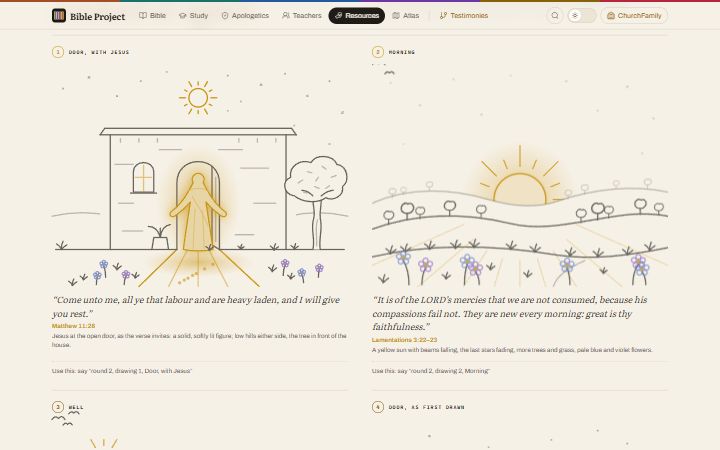
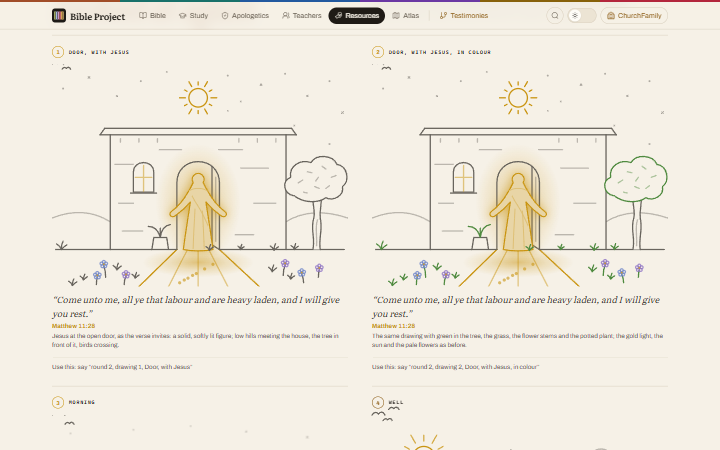
Design: round 2 - a coloured copy of Door with Jesus (green tree, grass, stems and plant) beside the original; both gain a right-to-left flock, lose the stray tree curves, and their hills meet the house (owner)

diff --git a/design/help-for-life-drawings-2/scenes.js b/design/help-for-life-drawings-2/scenes.js
@@ -10,37 +10,38 @@
   // Jesus in the doorway as one solid silhouette: head, hair to the shoulders, open sleeves and hands, the robe to the step.
   const FIGURE = "M122.6 127.6C121 131 119.6 134 117.6 137C112 147 106 154 99 159C96.5 160.5 97 164.5 100.5 164.6C102 164.5 103 163.8 104 163C111 158 116 153 119.6 148.6C117 166 114 184 112 200C120 202 136 202 144 200C142 184 139 166 136.4 148.6C140 153 145 158 152 163C153 163.8 154 164.5 155.5 164.6C159 164.5 159.5 160.5 157 159C150 154 144 147 138.4 137C136.4 134 135 131 133.4 127.6A6.4 6.4 0 1 0 122.6 127.6Z";
   const TREE = `<path class="pf" d="M282 200C285 188 279 178 283 166C285 158 281 150 282 142H291C292 150 289 158 290 166C293 178 288 188 290 200Z"/><path d="M282 200C285 188 279 178 283 166C285 158 281 150 282 142"/><path d="M290 200C288 188 293 178 290 166C289 158 292 150 291 142"/><path class="f" d="M286 196C287 186 284 176 287 168"/>
-      <g class="crown"><path class="pf" d="M262 142C250 140 248 126 258 122C256 110 268 102 280 106C286 96 304 98 308 108C320 110 322 126 314 132C316 142 304 148 296 144C288 150 272 150 262 142Z"/><path d="M262 142C250 140 248 126 258 122C256 110 268 102 280 106C286 96 304 98 308 108C320 110 322 126 314 132C316 142 304 148 296 144C288 150 272 150 262 142Z"/><path class="f" d="M266 128l5-3M276 116l5 1M292 110l4 3M302 122l5-2M284 132l5 2M296 134l4-3M272 138l4 1M288 122l-3 4"/><path d="M282 142C278 138 274 136 270 136M291 142C296 138 300 136 304 136"/></g>`;
+      <g class="crown"><path class="pf" d="M262 142C250 140 248 126 258 122C256 110 268 102 280 106C286 96 304 98 308 108C320 110 322 126 314 132C316 142 304 148 296 144C288 150 272 150 262 142Z"/><path class="canopy" d="M262 142C250 140 248 126 258 122C256 110 268 102 280 106C286 96 304 98 308 108C320 110 322 126 314 132C316 142 304 148 296 144C288 150 272 150 262 142Z"/><path class="f leafdash" d="M266 128l5-3M276 116l5 1M292 110l4 3M302 122l5-2M284 132l5 2M296 134l4-3M272 138l4 1M288 122l-3 4"/></g>`;
 
   window.ART = {
     // A · Come unto me (Matthew 11:28): Jesus as a solid, softly lit figure in the open doorway; the door's lines stop at
     // his outline. Low hills either side; the tree stands in front of the house's right side.
-    doorSolid: () => svg("Line drawing: Jesus standing as a softly lit figure in the open doorway of a small stone house at night, his arms open, the light falling across the step; a hill behind the house and a tree beside it", `
-      <defs>${glow("door-glow-2", "var(--c)", .5)}</defs>
+    doorSolid: (variant = "") => svg("Line drawing: Jesus standing as a softly lit figure in the open doorway of a small stone house at night, his arms open, the light falling across the step; a hill behind the house and a tree beside it", `
+      <defs>${glow(`door-glow-2${variant}`, "var(--c)", .5)}</defs>
       ${stars([[12, 26], [40, 14, 1.2], [70, 34, .9], [96, 18], [124, 8, .8], [190, 12],  [204, 40, .8], [226, 22, 1.2], [252, 10], [276, 34, 1.1], [300, 18], [314, 52, .9], [262, 66, .8], [236, 80, .8], [300, 86, .9], [190, 50, .7]])}
       <circle class="t" cx="158" cy="36" r="10"/><g class="t sunrays">${range(12, (i) => { const a = i * Math.PI / 6, r2 = i % 2 ? 17 : 20; return `<path d="M${n(158 + Math.cos(a) * 14)} ${n(36 + Math.sin(a) * 14)}L${n(158 + Math.cos(a) * r2)} ${n(36 + Math.sin(a) * r2)}"/>`; })}</g>
-      <path class="f" d="M64 164C44 159 22 159 0 164"/>
-      <path class="f" d="M256 164C276 159 298 159 320 164"/>
+      <path class="f" d="M0 166C20 158 42 157 63 170"/>
+      <path class="f" d="M253 170C274 157 296 158 320 166"/>
+      <g class="flock-rtl">${bird(0, 0, .9)}${bird(16, -5, .7)}${bird(11, 5, .65)}</g>
       <g transform="translate(30 0)">
-      <path class="pf" d="M22 69H234V200H22Z"/>
+      <path class="pf" d="M22 69H234V76H223V200H33V76H22Z"/>
       <path d="M22 76H234"/><path d="M27 69H229"/><path d="M22 76L27 69M234 76L229 69"/>
       <path class="f" d="M44 80v4M64 80v4M84 80v4M172 80v4M192 80v4M212 80v4"/>
       <path d="M33 76V200"/><path d="M223 76V200"/>
       <path class="f" d="M38 108h20M42 150h16M46 180h22M174 112h30M188 150h24M168 184h20M86 92h24M150 92h26"/>
       <path d="M58 138V116C58 110 63 106 69 106C75 106 80 110 80 116V138Z"/><path class="ft" d="M69 109V137M60 122H78"/><path d="M55 139H83"/>
-      <g class="glow-door"><ellipse cx="128" cy="150" rx="46" ry="64" fill="url(#door-glow-2)" stroke="none"/><ellipse cx="128" cy="214" rx="60" ry="16" fill="url(#door-glow-2)" stroke="none"/></g>
+      <g class="glow-door"><ellipse cx="128" cy="150" rx="46" ry="64" fill="url(#door-glow-2${variant})" stroke="none"/><ellipse cx="128" cy="214" rx="60" ry="16" fill="url(#door-glow-2${variant})" stroke="none"/></g>
       <path d="M105 200V128C105 114 115 105 128 105C141 105 151 114 151 128V200"/>
       <path d="M151 200L143 195V110.2"/><path class="f" d="M147 191V122"/>
       <g class="spill"><path class="t" d="M105 200L64 240"/><path class="t" d="M151 200L194 240"/><path class="ft" d="M116.5 200L96 240M128 200V240M139.5 200L160 240"/></g>
       <path class="solid" d="${FIGURE}"/>
       <path class="fold" d="M121.4 142C126 151 133 160 139 175M124.6 156C123.8 172 123 186 122.6 199M132.6 158C133.4 172 134 186 134.6 199M117.6 137C121 134.6 124 134 128 134C132 134 135 134.6 138.4 137"/>
       ${range(7, (i) => `<circle class="mote" style="--i:${i}" cx="${108 + (i * 9) % 40}" cy="${236 - (i * 5) % 22}" r="1" fill="currentColor"/>`)}
-      <path d="M78 200L80 187H94L96 200"/><path d="M87 187C85 179 80 175 74 175M87 187C88 179 92 174 98 173M87 187V177"/>
+      <path d="M78 200L80 187H94L96 200"/><path class="plant" d="M87 187C85 179 80 175 74 175M87 187C88 179 92 174 98 173M87 187V177"/>
       </g>
       <path d="M4 200H135M181 200H316"/>
       ${TREE}
       ${tuft(10, 200)}${tuft(34, 233, .7)}${tuft(22, 239, .8)}${tuft(240, 201, .8)}${tuft(262, 200, .7)}${tuft(170, 201, .7)}${tuft(204, 200, .6)}${tuft(70, 222, .8)}${tuft(90, 231, .7)}${tuft(238, 224, .8)}${tuft(258, 232, .7)}
-      ${[[58, 230, 12, -2], [78, 238, 9, 2], [48, 238, 8, 1], [250, 228, 11, 2], [272, 236, 9, -2], [288, 230, 8, 1]].map(([x, y, h, lean], i) => `<g class="bloom" style="transform-origin:${x}px ${y}px;--i:${i}"><path d="M${x} ${y}C${x} ${y - h / 2} ${x + lean / 2} ${y - h * .8} ${x + lean} ${y - h}"/>${range(5, (k) => { const a = (k * 72 - 90) * Math.PI / 180; return `<circle class="${i % 2 ? "violet" : "blue"} petal" cx="${n(x + lean + Math.cos(a) * 2.6)}" cy="${n(y - h - 2 + Math.sin(a) * 2.6)}" r="1.5"/>`; })}<circle class="heart" cx="${x + lean}" cy="${y - h - 2}" r="1"/></g>`).join("")}`),
+      ${[[58, 230, 12, -2], [78, 238, 9, 2], [48, 238, 8, 1], [250, 228, 11, 2], [272, 236, 9, -2], [288, 230, 8, 1]].map(([x, y, h, lean], i) => `<g class="bloom" style="transform-origin:${x}px ${y}px;--i:${i}"><path class="stem" d="M${x} ${y}C${x} ${y - h / 2} ${x + lean / 2} ${y - h * .8} ${x + lean} ${y - h}"/>${range(5, (k) => { const a = (k * 72 - 90) * Math.PI / 180; return `<circle class="${i % 2 ? "violet" : "blue"} petal" cx="${n(x + lean + Math.cos(a) * 2.6)}" cy="${n(y - h - 2 + Math.sin(a) * 2.6)}" r="1.5"/>`; })}<circle class="heart" cx="${x + lean}" cy="${y - h - 2}" r="1"/></g>`).join("")}`),
 
     // B · New every morning (Lamentations 3:22–23), refined: a yellow sun rising, its beams falling across the hills,
     // the last stars fading, olive trees on the hills, pale blue and violet flowers in thick grass.

diff --git a/design/help-for-life-drawings-2/page.js b/design/help-for-life-drawings-2/page.js
@@ -3,7 +3,8 @@
 (() => {
   const DOOR = "Come unto me, all ye that labour and are heavy laden, and I will give you rest.";
   const ITEMS = [
-    { key: "doorSolid", css: "door-solid", name: "Door, with Jesus", tone: "sun", verse: DOOR, ref: "Matthew 11:28", note: "Jesus at the open door, as the verse invites: a solid, softly lit figure; low hills either side, the tree in front of the house." },
+    { key: "doorSolid", css: "door-solid", name: "Door, with Jesus", tone: "sun", verse: DOOR, ref: "Matthew 11:28", note: "Jesus at the open door, as the verse invites: a solid, softly lit figure; low hills meeting the house, the tree in front of it, birds crossing." },
+    { key: "doorSolid", arg: "-colour", css: "door-solid door-colour", name: "Door, with Jesus, in colour", tone: "sun", verse: DOOR, ref: "Matthew 11:28", note: "The same drawing with green in the tree, the grass, the flower stems and the potted plant; the gold light, the sun and the pale flowers as before." },
     { key: "morning", css: "morning", name: "Morning", tone: "sun", verse: "It is of the LORD’s mercies that we are not consumed, because his compassions fail not. They are new every morning: great is thy faithfulness.", ref: "Lamentations 3:22–23", note: "A yellow sun with beams falling, the last stars fading, more trees and grass, pale blue and violet flowers." },
     { key: "well", css: "well", name: "Well", tone: "accent", verse: "But whosoever drinketh of the water that I shall give him shall never thirst …", ref: "John 4:14", note: "A plain sun with slowly turning rays, soft drifting clouds, a flock of birds high up, olive trees on the hills." },
     { key: "doorOriginal", css: "door-original", name: "Door, as first drawn", tone: "epistles", verse: DOOR, ref: "Matthew 11:28", note: "The first version, before Jesus was added, shown unchanged." },
@@ -14,15 +15,15 @@
   main.innerHTML = `<div class="wrap">
     <header class="head">
       <p class="kick">Help for life · the hero drawing · round 2</p>
-      <h1>Four drawings, <em>looked at again</em></h1>
-      <p class="lead">The owner's changes to three of the twenty-four, and the Door as it was first drawn, side by side. Each moves slowly and never stops; with reduced motion turned on, each stays still. Say the number to choose.</p>
+      <h1>Five drawings, <em>looked at again</em></h1>
+      <p class="lead">The owner's changes to three of the twenty-four, the Door also in colour, and the Door as it was first drawn. Each moves slowly and never stops; with reduced motion turned on, each stays still. Say the number to choose.</p>
     </header>
-    <ol class="grid">${ITEMS.map((it, i) => `<li class="cell" id="${it.css}" style="--c: var(--${it.tone})">
+    <ol class="grid">${ITEMS.map((it, i) => `<li class="cell" id="${it.css.split(" ").at(-1)}" style="--c: var(--${it.tone})">
         <p class="label"><b>${i + 1}</b><span>${esc(it.name)}</span></p>
-        <figure class="draw draw-${it.css}">${ART[it.key]()}
+        <figure class="draw ${it.css.split(" ").map((c) => `draw-${c}`).join(" ")}">${ART[it.key](it.arg)}
           <figcaption><q>${esc(it.verse)}</q><cite>${esc(it.ref)}</cite><small>${esc(it.note)}</small></figcaption></figure>
         <p class="use">Use this: say “round 2, drawing ${i + 1}, ${esc(it.name)}”</p>
       </li>`).join("")}</ol>
-    <p class="foot-note">Every verse is the King James text, word for word; where a verse goes on, it is shortened and marked …. The drawings are this site's own, drawn as lines. No person in them has a face; drawing 1 shows Jesus at the door, as Matthew 11:28 invites. All twenty-four are on <a href="../help-for-life-drawings/">the first page</a>.</p>
+    <p class="foot-note">Every verse is the King James text, word for word; where a verse goes on, it is shortened and marked …. The drawings are this site's own, drawn as lines. No person in them has a face; drawings 1 and 2 show Jesus at the door, as Matthew 11:28 invites. All twenty-four are on <a href="../help-for-life-drawings/">the first page</a>.</p>
   </div>`;
 })();

diff --git a/design/help-for-life-drawings-2/round2.css b/design/help-for-life-drawings-2/round2.css
@@ -1,7 +1,8 @@
 /* Round 2: four drawings, large, 2 × 2 on a desktop and tablet, one column on a phone. Hairlines only: no cards, no glow
    but each drawing's one light. The drawing rules repeat the 24-drawing page's (../help-for-life-drawings/drawings.css). */
 :root { --sun: #c99410; --blue: #6f86c9; --violet: #8f74c4; }
-:root[data-theme="dark"] { --sun: #f2cf5c; --blue: #a9bbf0; --violet: #c4b0ee; }
+:root[data-theme="dark"] { --sun: #f2cf5c; --blue: #a9bbf0; --violet: #c4b0ee; --green: #8cc479; }
+:root:not([data-theme="dark"]) { --green: #4f8a3f; }
 
 .head { display: grid; grid-template-columns: minmax(0, 1fr) minmax(0, 1fr); gap: .8rem 3.5rem; align-items: end; padding: 2rem 0 1.6rem; }
 .kick { grid-column: 1 / -1; display: flex; align-items: center; gap: .6rem; color: var(--door); font: 600 .6rem/1.2 var(--mono); letter-spacing: .18em; text-transform: uppercase; }
@@ -59,6 +60,12 @@
 :root[data-theme="dark"] .draw-door-solid .solid { fill: color-mix(in srgb, var(--c) 58%, var(--page)); }
 
 .draw-door-solid .sunrays { transform-origin: 158px 36px; animation: turn 80s linear infinite; }
+.draw-door-solid .art { overflow: hidden; }
+.draw-door-solid .flock-rtl { animation: flock-rtl 36s linear infinite; }
+@keyframes flock-rtl { from { transform: translate(350px, 8px); } to { transform: translate(-50px, 4px); } }
+/* The coloured version: green in the tree, the grass, the flower stems and the potted plant; the leaf dashes dimmer. */
+.draw-door-colour .canopy, .draw-door-colour .tuft, .draw-door-colour .stem, .draw-door-colour .plant { stroke: var(--green); }
+.draw-door-colour .leafdash { stroke: var(--green); opacity: .45; }
 .draw-door-solid .bloom { animation: sway 6s ease-in-out infinite alternate; animation-delay: calc(var(--i) * -1.7s); }
 .draw-door-solid .blue { stroke: var(--blue); } .draw-door-solid .violet { stroke: var(--violet); }
 .draw-door-solid .petal { opacity: .8; } .draw-door-solid .heart { fill: var(--sun); stroke: none; opacity: .8; }
